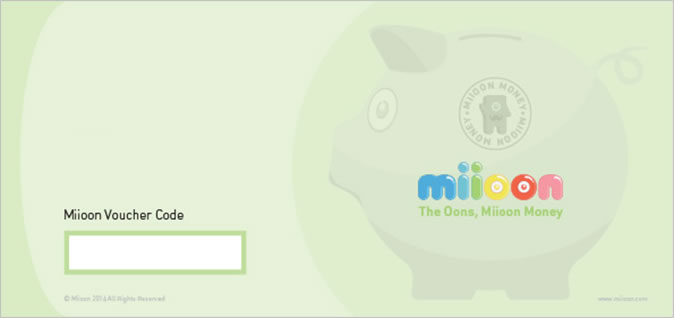
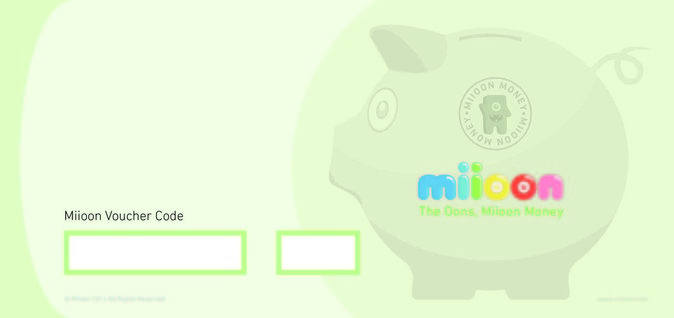
gift card preview update & add pin code field

diff --git a/retail/app/views/gift/gift-preview.html b/retail/app/views/gift/gift-preview.html
@@ -25,7 +25,8 @@
       <div class='gift-preview-imgWrap'>
         <div class='gift-preview-cert'><strong>￡{{selectedGiftCard ? selectedGiftCard.price : '100'}}</strong><br/><span>Gift Card</span></div>
         <span class='gift-preview-code'>xxxxxx</span>
-        <img ng-src="{{selectedGiftCard.images[0] ? selectedGiftCard.images[0] : 'images/gift/gift-card-preview.jpg'}}" alt='Gift Card'/>
+        <span class='gift-pin-code'>xxxxx</span>
+        <img width="674" ng-src="{{selectedGiftCard.images[0] ? selectedGiftCard.images[0] : 'images/gift/gift-card-preview.jpg'}}" alt='Gift Card'/>
       </div>
     </div>
   </div>

diff --git a/retail/app/styles/_gift.scss b/retail/app/styles/_gift.scss
@@ -47,6 +47,13 @@
       font-size: 22px;
       color: $grey-darker;
     }
+    .gift-pin-code {
+      position: absolute;
+      left: 285px;
+      top: 240px;
+      font-size: 22px;
+      color: $grey-darker;
+    }
   }
   .gift-preview-foot {
     margin-top: $panel-padding;
